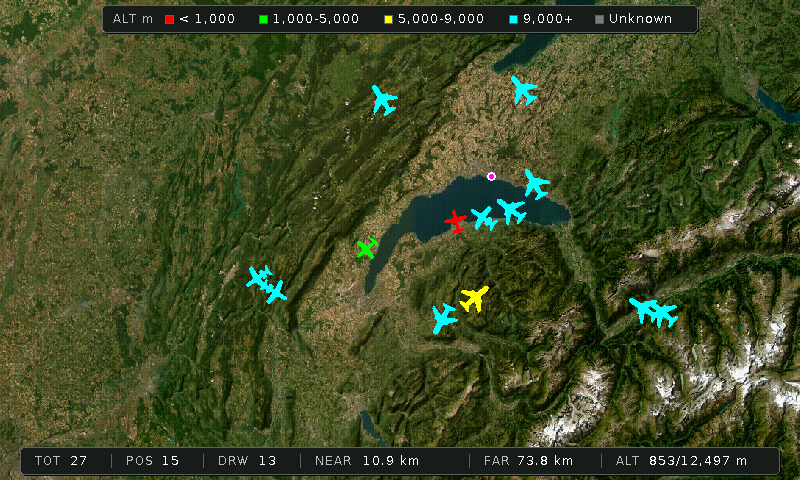
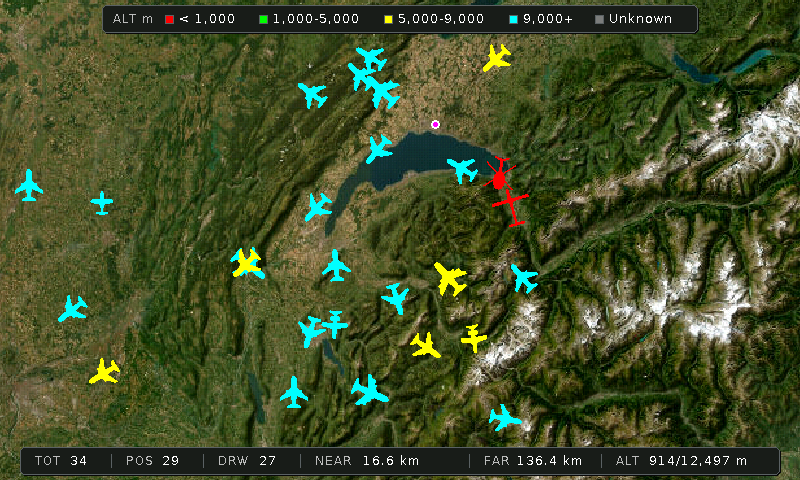
add all screenshots to README
Display all five screens (main radar, menu, flight info, aircraft
picture, statistics) in a two-column grid layout.

diff --git a/README.md b/README.md
@@ -18,11 +18,22 @@ The page always serves the firmware built from the latest `main` commit. No driv
 
 ---
 
-## Screenshot
+## Screenshots
 
-![Main radar screen](screenshots/mainscreen.png)
+| Main Radar | Map Menu |
+|:---:|:---:|
+| ![Main radar screen](screenshots/mainscreen.png) | ![Map actions menu](screenshots/menu.png) |
+| *Live aircraft overlay on ESRI World Imagery satellite map* | *Map actions menu — re-centre, zoom, save* |
 
-*Live aircraft overlay on ESRI World Imagery satellite map — Lake Geneva area*
+| Aircraft Info | Aircraft Picture |
+|:---:|:---:|
+| ![Aircraft info page](screenshots/flightinfo.png) | ![Aircraft picture page](screenshots/plane.png) |
+| *Flight details — route, altitude, speed, bearing* | *Full-screen aircraft photo fetched from the Pi* |
+
+| Statistics |
+|:---:|
+| ![Statistics page](screenshots/statistics.png) |
+| *Live and all-time ADS-B records* |
 
 ---
 